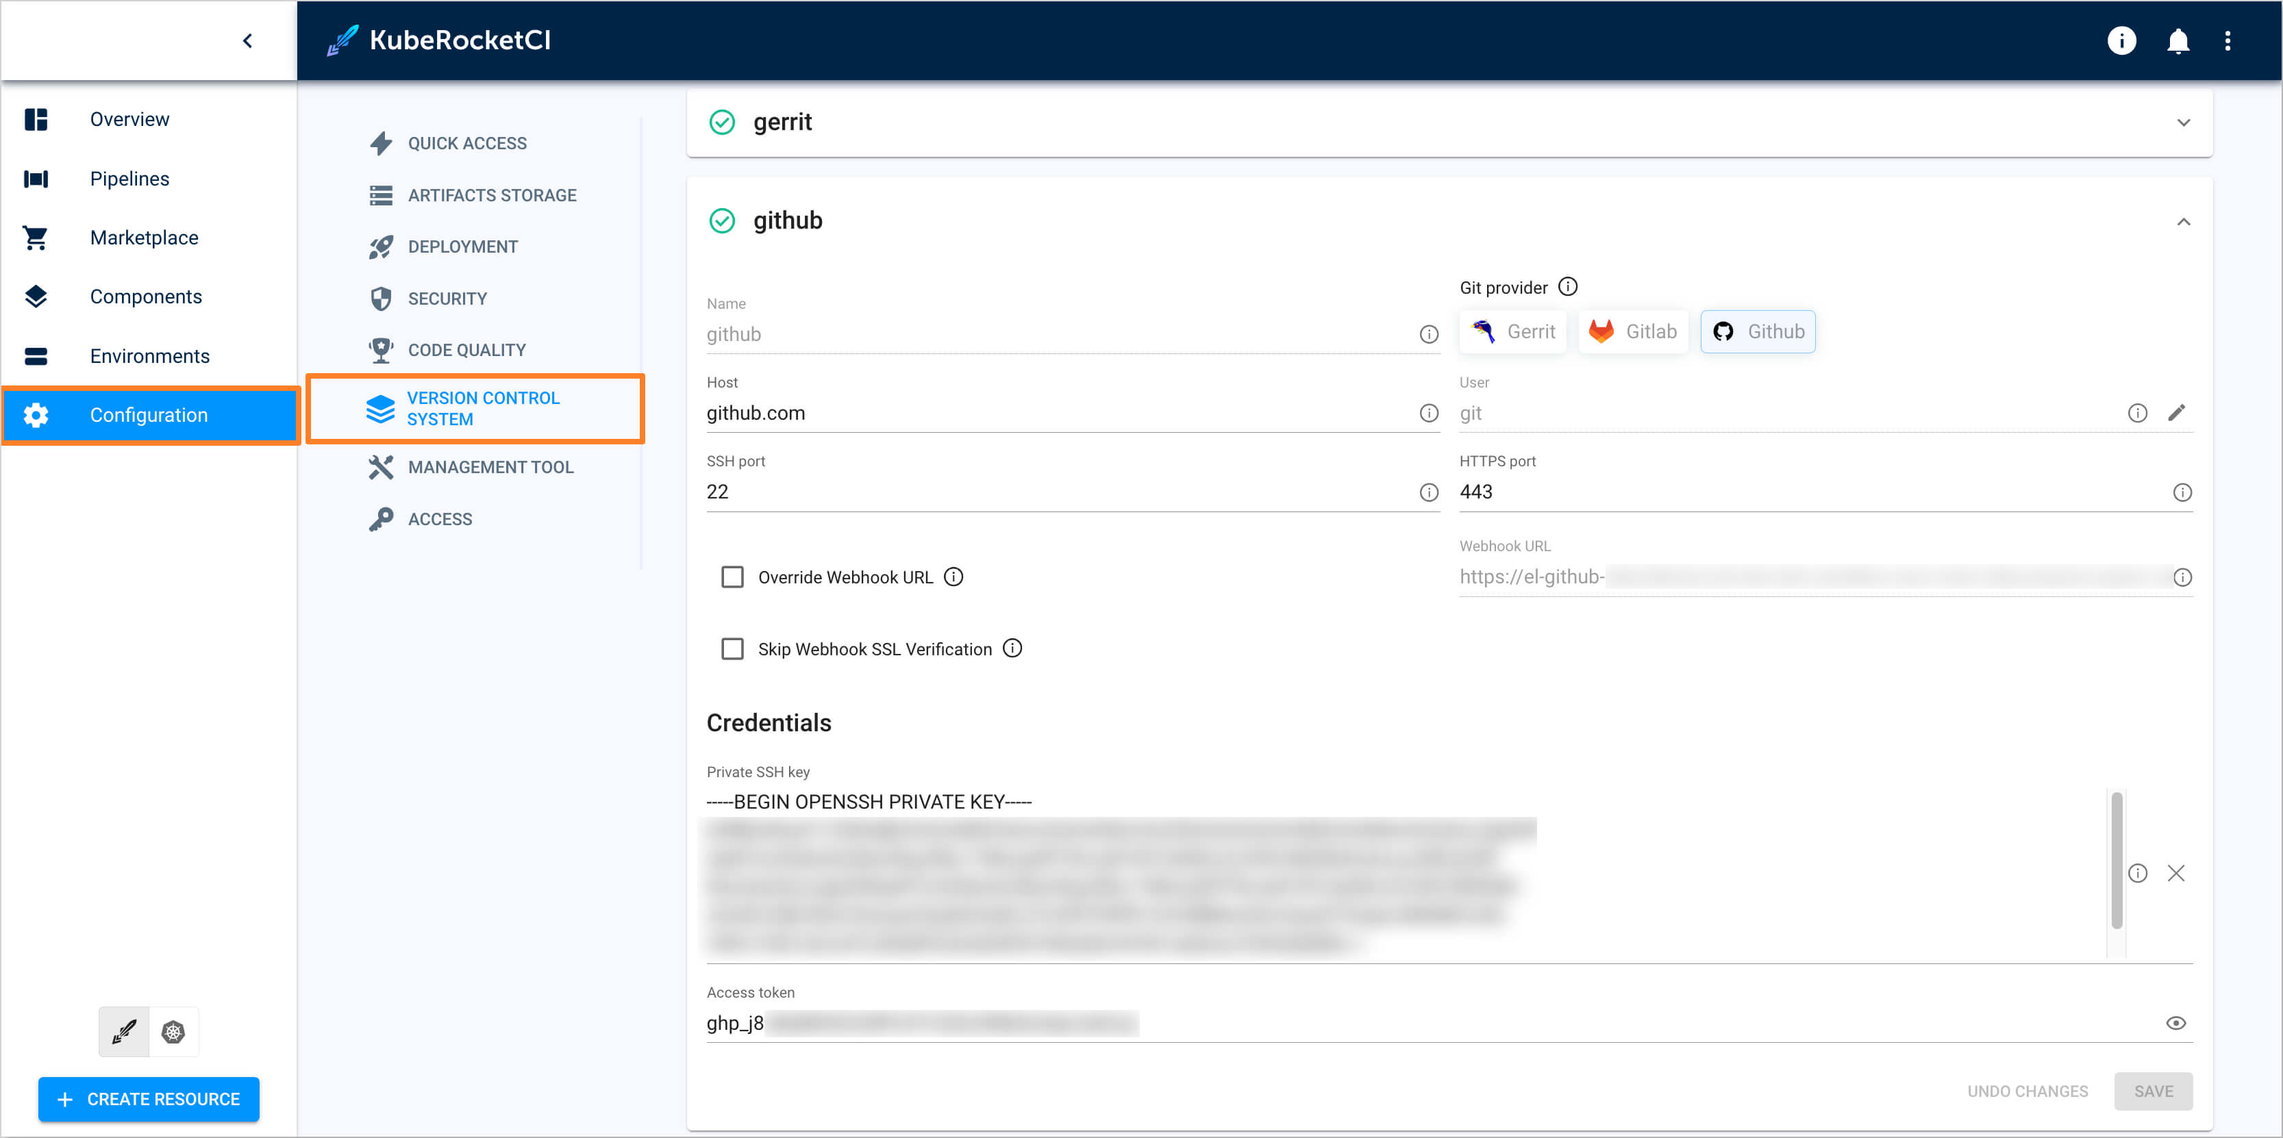
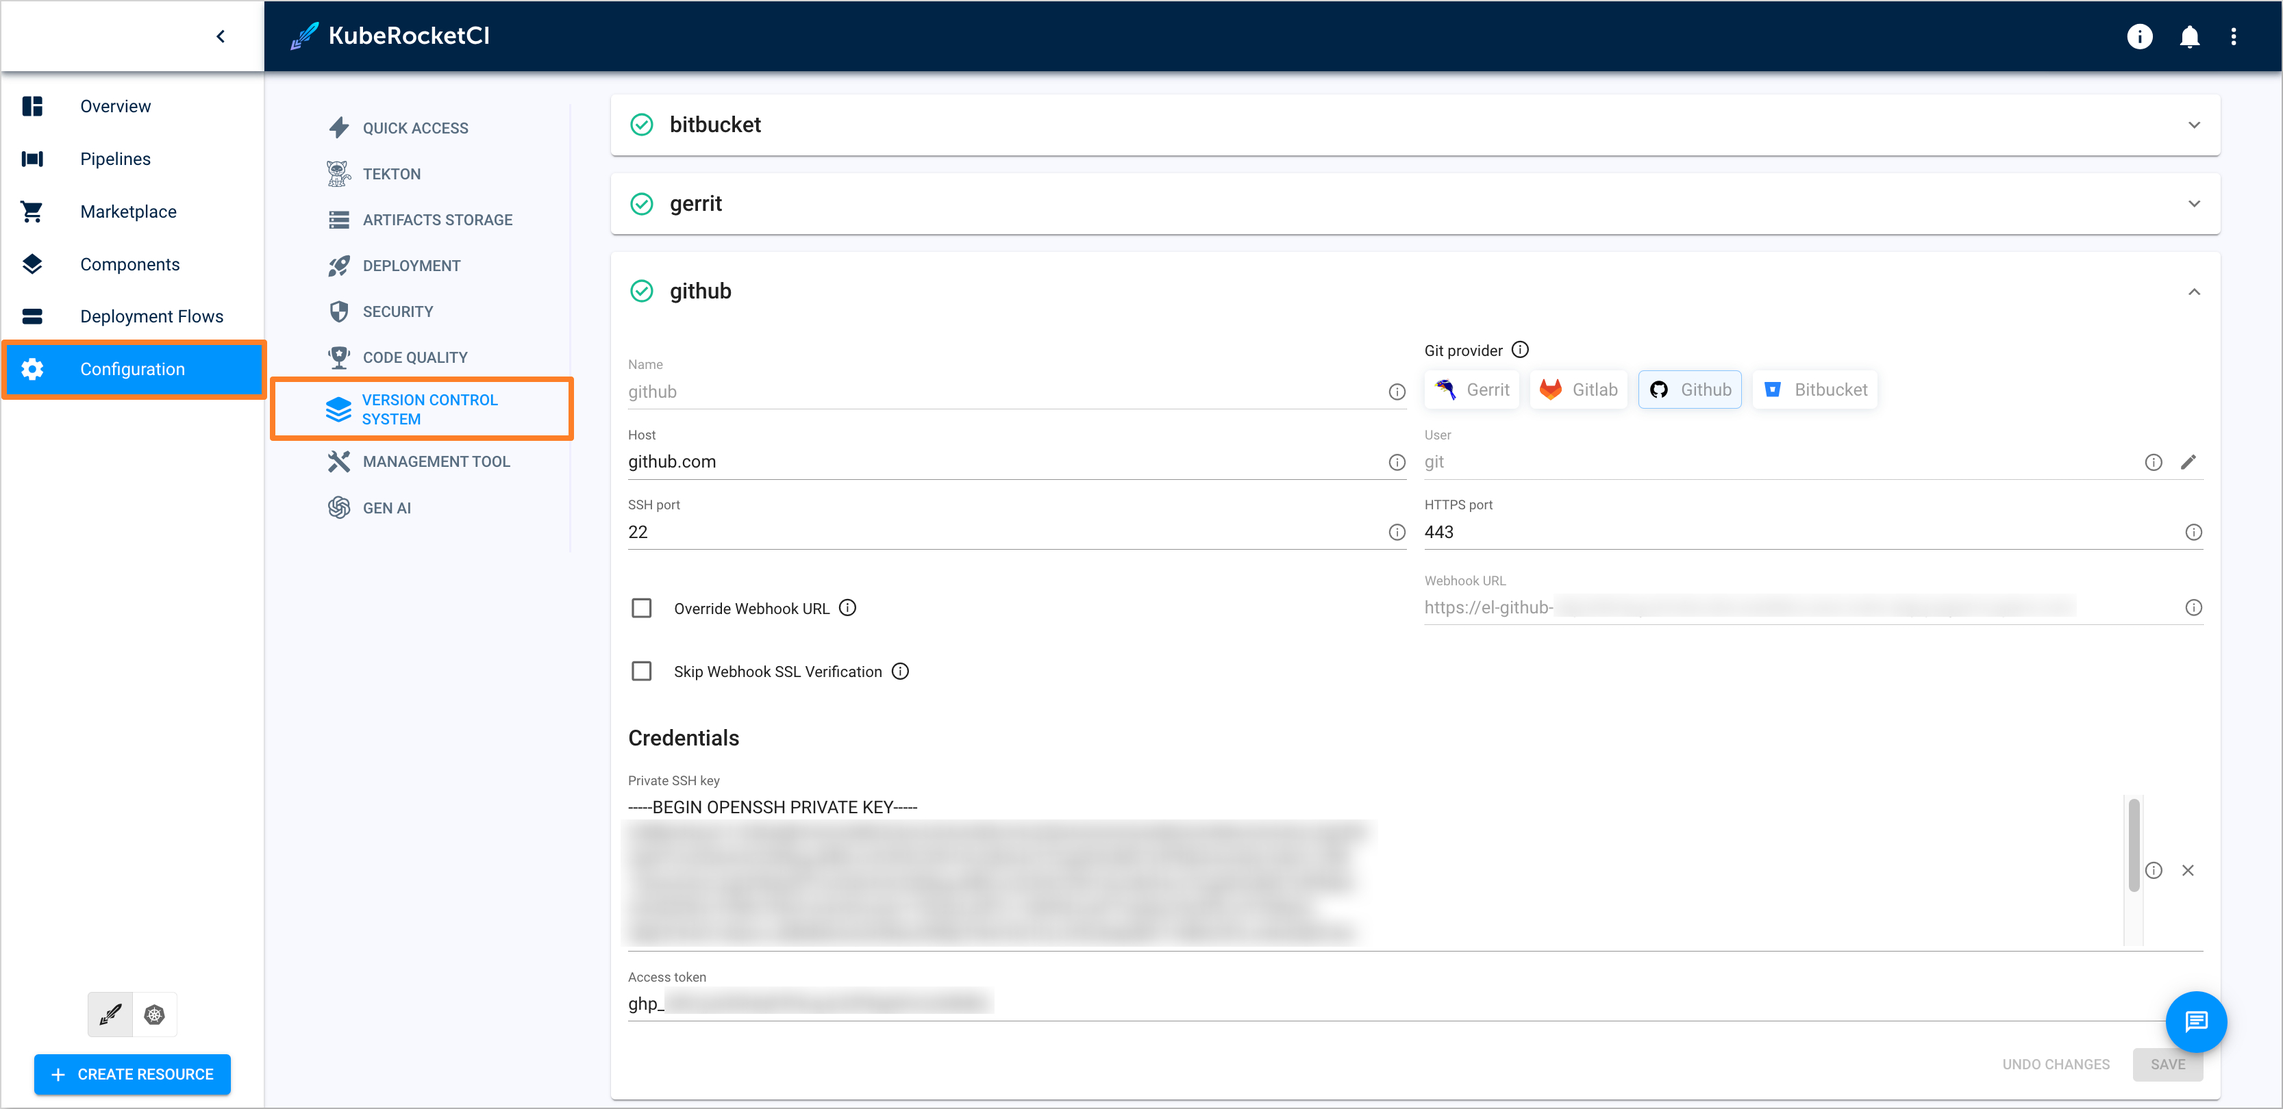
chore: Add BitBucket integration references

diff --git a/docs/user-guide/add-git-server.md b/docs/user-guide/add-git-server.md
@@ -3,7 +3,7 @@ import TabItem from '@theme/TabItem';
 
 # Add Git Server
 
-This page describes how to integrate KubeRocketCI with GitLab or GitHub.
+This guide outlines the steps for integrating KubeRocketCI with GitLab, GitHub, or Bitbucket, enabling seamless CI/CD workflows across these version control platforms.
 
 <div style={{ display: 'flex', justifyContent: 'center' }}>
 <iframe width="560" height="315" src="https://www.youtube.com/embed/pzheGwBLZvU" title="Install KubeRocketCI via Civo" frameborder="0" allow="accelerometer; autoplay; clipboard-write; encrypted-media; gyroscope; picture-in-picture" allowfullscreen="allowfullscreen"></iframe>
@@ -13,19 +13,21 @@ This page describes how to integrate KubeRocketCI with GitLab or GitHub.
 
 To start from, it is required to add both Secret with SSH key, API token, and GitServer resources by taking the steps below.
 
-1. Generate an SSH key pair and add a public key to [GitLab](https://docs.gitlab.com/ee/user/ssh.html) or [GitHub](https://docs.github.com/en/authentication/connecting-to-github-with-ssh/generating-a-new-ssh-key-and-adding-it-to-the-ssh-agent) account.
+1. Generate an SSH key pair and add a public key to your [GitLab](https://docs.gitlab.com/ee/user/ssh.html), [GitHub](https://docs.github.com/en/authentication/connecting-to-github-with-ssh/generating-a-new-ssh-key-and-adding-it-to-the-ssh-agent), or [Bitbucket](https://support.atlassian.com/bitbucket-cloud/docs/configure-ssh-and-two-step-verification) account.
 
     ```bash
     ssh-keygen -t ed25519 -C "email@example.com"
     ```
 
 2. Generate access token for [GitLab](https://docs.gitlab.com/ee/user/profile/personal_access_tokens.html) or [GitHub](https://docs.github.com/en/authentication/keeping-your-account-and-data-secure/creating-a-personal-access-token) account with read/write access to the API. Both personal and project access tokens are applicable.
+For [Bitbucket](https://support.atlassian.com/bitbucket-cloud/docs/app-passwords), generate an App Password with the necessary permissions to interact with the repository.
 
     <Tabs
       defaultValue="github"
       values={[
         {label: 'GitHub', value: 'github'},
-        {label: 'GitLab', value: 'gitlab'}
+        {label: 'GitLab', value: 'gitlab'},
+        {label: 'Bitbucket', value: 'bitbucket'}
       ]}>
 
       <TabItem value="github">
@@ -35,7 +37,7 @@ To start from, it is required to add both Secret with SSH key, API token, and Gi
       * Click the profile account and navigate to **Settings** -> **Developer Settings**.
       * Select *Personal access tokens (classic)* and generate a new token with the following parameters:
 
-      ![Repo permission](../assets/operator-guide/github-scopes-1.png "Repo permission")
+        ![Repo permissions](../assets/operator-guide/github-scopes-1.png "Repo permissions")
 
       :::note
         The access below is required for the codebase operator to setup hooks.
@@ -59,7 +61,7 @@ To start from, it is required to add both Secret with SSH key, API token, and Gi
       * Choose a name and an optional expiry date for the token.
       * In the **Scopes** block, select the **api** scope for the token.
 
-      ![Personal access tokens](../assets/operator-guide/scopes.png "Personal access tokens")
+        ![Personal access tokens](../assets/operator-guide/scopes.png "Personal access tokens")
 
       * Click the **Create personal access token** button.
 
@@ -75,13 +77,34 @@ To start from, it is required to add both Secret with SSH key, API token, and Gi
       * Choose a role: *Owner* or *Maintainer*.
       * In the **Scopes** block, select the *api* scope for the token.
 
-      ![Project access tokens](../assets/operator-guide/scopes-project.png "Project access tokens")
+        ![Project access tokens](../assets/operator-guide/scopes-project.png "Project access tokens")
 
       * Click the **Create project access token** button.
       </TabItem>
+
+      <TabItem value="bitbucket">
+      To create an App Password in Bitbucket, follow the steps below:
+
+      * Log in to Bitbucket.
+      * In the top navigation bar, click the **Settings** icon located in the upper-right corner.
+      * Navigate to **Personal settings** and select **Personal Bitbucket settings**.
+      * In the left-hand sidebar, click on **App passwords**.
+      * Choose **Create app password**.
+      * Provide a meaningful name for the App Password.
+      * Specify the required permissions by selecting the appropriate checkboxes.
+
+        ![App password permissions](../assets/operator-guide/git-servers/app-password-permissions.png "App password permissions")
+
+      * Click **Create** to generate the App Password. A dialog box will display the new password.
+      * Copy the App Password and securely store it. You will not be able to see it again.
+      </TabItem>
     </Tabs>
 
-3. Create a secret in the namespace where KubeRocketCI is installed (`edp` by default) for the Git account with the **id_rsa**, **username**, and **token** fields.
+3. Create a secret in the namespace where KubeRocketCI is installed (default is `edp`) to store the Git account credentials, including the **id_rsa**, **username**, and **token** fields.
+
+   :::note
+   For integration with **Bitbucket**, the **token** field should be populated with the App Password.
+   :::
 
     <Tabs
       defaultValue="portal"
@@ -99,7 +122,7 @@ To start from, it is required to add both Secret with SSH key, API token, and Gi
       <TabItem value="kubectl">
 
       :::warning
-        Take the following template as an example (for the name use `ci-gitlab` for GitLab and `ci-github` for GitHub):
+        Take the following template as an example (for the name use `ci-gitlab` for GitLab, `ci-github` for GitHub, and `ci-bitbucket` for Bitbucket):
       :::
 
       Create a manifest file called `secret.yaml` with the following content filled in:
@@ -126,6 +149,24 @@ To start from, it is required to add both Secret with SSH key, API token, and Gi
     </Tabs>
 
 As a result, you will be able to create codebases using an integrated Version Control System.
+
+## Bitbucket Default Branch Management
+
+When onboarding components via KubeRocketCI with Bitbucket as the Git Server, Bitbucket automatically creates a `master` branch as the default, regardless of the branch specified during component creation (e.g., `main`). This may result in inconsistencies with the expected default branch.
+
+To change the default branch from `master` to desired branch in Bitbucket, follow these steps:
+
+* Log in to Bitbucket.
+* Navigate to the repository where the default branch needs to be changed.
+* In the left sidebar menu, select **Repository Settings**.
+
+  ![Repository Settings](../assets/operator-guide/git-servers/repository-settings.png "Repository settings")
+
+* Proceed to the **Advanced** section. Locate the **Main branch** field and select your desired branch to set it as the default.
+
+  ![Default branch](../assets/operator-guide/git-servers/default-branch.png "Default branch")
+
+* Click **Save changes** to apply your modifications.
 
 ## Advanced Configuration: Using a Custom Webhook URL
 

diff --git a/docs/operator-guide/cd/argocd-integration.md b/docs/operator-guide/cd/argocd-integration.md
@@ -85,18 +85,18 @@ Now that Argo CD is integrated, it is time to configure it properly. To configur
     </Tabs>
 
 2. Add a [credential template](https://argo-cd.readthedocs.io/en/stable/user-guide/private-repositories/#private-repositories)
-for GitHub, GitLab, Gerrit integrations. The credential template must be created for each Git server.
+for GitHub, GitLab, Bitbucket, or Gerrit integrations. The credential template must be created for each Git Server.
 
     <Tabs
       defaultValue="github"
       values={[
-        {label: 'GitHub/GitLab', value: 'github'},
+        {label: 'GitHub/GitLab/Bitbucket', value: 'github'},
         {label: 'Gerrit', value: 'gerrit'}
       ]}>
 
       <TabItem value="github">
 
-      Generate an SSH key pair and add a public key to GitLab or GitHub account.
+      Generate an SSH key pair and add a public key to GitLab, GitHub, or Bitbucket account.
 
       :::warning
         Use an additional GitHub/GitLab User to access a repository. For example:<br />
@@ -108,11 +108,11 @@ for GitHub, GitLab, Gerrit integrations. The credential template must be created
       ssh-keygen -t ed25519 -C "email@example.com" -f argocd
       ```
 
-      Copy SSH private key to Argo CD namespace
+      Copy SSH private key to Argo CD namespace.
 
       ```bash
       EDP_NAMESPACE="edp"
-      VCS_HOST="<github.com_or_gitlab.com>"
+      VCS_HOST="<github.com_or_gitlab.com_or_bitbucket.org>"
       ACCOUNT_NAME="<ACCOUNT_NAME>"
       URL="ssh://git@${VCS_HOST}:22/${ACCOUNT_NAME}"
 
@@ -122,11 +122,10 @@ for GitHub, GitLab, Gerrit integrations. The credential template must be created
       kubectl label --overwrite secret ${EDP_NAMESPACE} -n argocd "argocd.argoproj.io/secret-type=repo-creds"
       ```
 
-      Add public SSH key to GitHub/GitLab account.
       </TabItem>
 
       <TabItem value="gerrit">
-        Copy existing SSH private key for Gerrit to Argo CD namespace
+        Copy existing SSH private key for Gerrit to Argo CD namespace.
 
         ```bash
         EDP_NAMESPACE="edp"
@@ -140,17 +139,17 @@ for GitHub, GitLab, Gerrit integrations. The credential template must be created
     </Tabs>
 
 3. Add [SSH Known hosts](https://argo-cd.readthedocs.io/en/stable/user-guide/private-repositories/#unknown-ssh-hosts)
-   for Gerrit, GitHub, GitLab integration.
+   for GitHub, GitLab, Bitbucket, or Gerrit integration.
 
     <Tabs
       defaultValue="github"
       values={[
-        {label: 'GitHub/GitLab', value: 'github'},
+        {label: 'GitHub/GitLab/Bitbucket', value: 'github'},
         {label: 'Gerrit', value: 'gerrit'}
       ]}>
 
       <TabItem value="github">
-        Add GitHub/GitLab host to Argo CD config map with known hosts
+        Add GitHub, GitLab, or Bitbucket host to Argo CD config map with known hosts.
 
         ```bash
         EDP_NAMESPACE="edp"
@@ -223,7 +222,7 @@ for GitHub, GitLab, Gerrit integrations. The credential template must be created
         - edp
     ```
 
-5. Check that your new Repository, Known Hosts, and AppProject are added to the Argo CD UI.
+5. Check that your new **Repository**, **Known Hosts**, and **AppProject** are added to the Argo CD UI.
 
 6. Generate Argo CD project token for deploy integration:
 

diff --git a/docs/basic-concepts.md b/docs/basic-concepts.md
@@ -6,7 +6,7 @@ Consult [KubeRocketCI Glossary](./glossary.md) section for definitions mentioned
 |-|-|
 |**Cloud Agnostic**|Platform runs on any Kubernetes cluster, including those provided by Public Cloud Providers or deployed on-premises.|
 |**CI/CD for Microservices**|KubeRocketCI is designed to support CI/CD for [Microservices](https://microservices.io/) running as containerized applications inside a Kubernetes Cluster. It provides CI Pipelines for [different technology stacks](./about-platform.md#features).|
-|**Version Control System (VCS)**|The platform integrates with **GitHub** and **GitLab**.|
+|**Version Control System (VCS)**|The platform integrates with **GitHub**, **GitLab**, **Bitbucket**, and **Gerrit**.|
 |**Branching Strategy**|KubeRocketCI supports both [Trunk-based](https://trunkbaseddevelopment.com/) development and [GitHub/GitLab flow](https://guides.github.com/introduction/flow/). It creates two Pipelines per codebase branch: *Code Review* and *Build*.|
 |**Repository Structure**|By default, the platform provides a separate Git repository for each Codebase. It does not support *Monorepo* out of the box, but can be customized to align with the *Monorepo* approach.|
 |**Artifacts Versioning**|The platform supports two approaches for Artifacts versioning: <br />- `default` (BRANCH-[DATETIME])<br />- `EDP` (MAJOR.MINOR.PATCH-BUILD_ID), which follows [SemVer](https://semver.org/). <br />You can also create custom versioning by implementing the `get-version` CI step.|

diff --git a/docs/user-guide/configuration-overview.md b/docs/user-guide/configuration-overview.md
@@ -17,7 +17,7 @@ Here is the list of all the sections provided in the Configuration tab. Familiar
 |[DefectDojo](../operator-guide/devsecops/defectdojo.md)|Connect platform with DefectDojo to manage and track security defects in applications.|
 |[DependencyTrack](../operator-guide/devsecops/dependency-track.md)|Connect the platform with the DependencyTrack tool for monitoring and managing vulnerabilities within third-party components.|
 |[SonarQube](../operator-guide/code-quality/sonarqube.md)|Integrate SonarQube to enable static code analysis.|
-|[Git Server](add-git-server.md)|Connect the platform to Version Control Systems, such as GitHub, GitLab, or Gerrit for source code management.|
+|[Git Server](add-git-server.md)|Connect the platform to Version Control Systems, such as GitHub, GitLab, Bitbucket, or Gerrit for source code management.|
 |[Jira](../operator-guide/project-management-and-reporting/jira-integration.md)|Integrate Jira to track and deliver the status of your projects on a dedicated dashboard.|
 |[SSO](../operator-guide/auth/keycloak.md)|Integrate platform with identity provider to enable the Single Sign-On approach.|
 

diff --git a/docs/developer-guide/reference-architecture.md b/docs/developer-guide/reference-architecture.md
@@ -52,6 +52,6 @@ KubeRocketCI harnesses the robust capabilities of Kubernetes in conjunction with
 
 ![Platform and Tools](../assets/developer-guide/architecture/reference-architecture-tools.png)
 
-KubeRocketCI integrates with GitLab, GitHub, and Gerrit for version control. These systems are foundational components enabling efficient source code management, collaboration, and code review processes.
+KubeRocketCI integrates with GitLab, GitHub, Bitbucket, and Gerrit for version control. These systems are foundational components enabling efficient source code management, collaboration, and code review processes.
 
 Platform ensures robust security measures by leveraging OpenID Connect (OIDC) for authentication and authorization across all platform tools and Kubernetes clusters. By employing OIDC, KubeRocketCI establishes a unified and secure authentication mechanism, enabling seamless access control and user authentication for all tools integrated into the platform. This standardized approach ensures stringent security protocols, maintaining authentication consistency and authorization policies across the platform ecosystem.

diff --git a/docs/developer-guide/telemetry.md b/docs/developer-guide/telemetry.md
@@ -9,7 +9,7 @@ The codebase-operator collects the following data:
 - The version of the platform
 - The number of codebases created and their parameters: language (for example, Java, NodeJS, etc.), framework (for example, FastAPI, Flask, etc.), build tool (for example, Maven, Gradle, etc.), strategy (for example, Clone, Create, Import), and Type (for example, library, application, etc.)
 - The number of CD pipelines created and their parameters: deployment type (for example, Auto, Manual), and the number of stages
-- The number of Git providers connected to the platform and their types (for example, GitHub, GitLab, Gerrit)
+- The number of Git providers connected to the platform and their types (for example GitHub, GitLab, Bitbucket, or Gerrit)
 - Where Jira is enabled or not
 - The type of the Docker registry connected to the platform (for example, Docker Hub, Harbor, ECR)
 

diff --git a/docs/operator-guide/secrets-management/external-secrets-operator-integration.md b/docs/operator-guide/secrets-management/external-secrets-operator-integration.md
@@ -17,6 +17,7 @@ KubeRocketCI leverages a variety of secrets to facilitate the integration of dif
 |regcred|.dockerconfigjson|Serialized JSON that follows docker config patterns|cd-pipeline-operator|
 |ci-github|id_rsa<br />token<br />secretString|Private key from github repo <br />API token<br />Random string|edp-tekton|
 |ci-gitlab|id_rsa<br />token<br />secretString|Private key from gitlab repo <br />API token<br />Random string|edp-tekton|
+|ci-bitbucket|id_rsa<br />token<br />secretString|Private key from bitbucket repo <br />App Password<br />Random string|edp-tekton|
 |ci-jira|username<br />password|Jira username <br />Jira password|edp-codebase-operator|
 |ci-sonarqube|token<br />url|SonarQube token<br />SonarQube URL|edp-tekton|
 |ci-nexus|username<br />password<br />url|Nexus username<br />Nexus password<br />Nexus URL|edp-tekton|

diff --git a/docs/user-guide/code-review-pipeline.md b/docs/user-guide/code-review-pipeline.md
@@ -7,7 +7,7 @@ This section provides details on the Code Review pipeline of the KubeRocketCI CI
 The purpose of the Code Review pipeline contains the following points:
 
 * Check out and test a particular developer's change (Patch Set) in order to inspect whether the code fits all the quality gates and can be built and tested;
-* Be triggered if any new Patch Set appears in GitHub/GitLab/Gerrit;
+* Be triggered if any new Patch Set appears in GitHub, GitLab, Bitbucket, or Gerrit;
 * Send feedback about the build process in Tekton to review the card in Gerrit;
 * Send feedback about Sonar violations that have been found during the Sonar stage.
 

diff --git a/docs/user-guide/git-server-overview.md b/docs/user-guide/git-server-overview.md
@@ -1,6 +1,6 @@
 # Manage Git Servers
 
-Git Server is responsible for integration with Version Control System, whether it is GitHub, GitLab or Gerrit.
+Git Server is responsible for integration with Version Control System, whether it is GitHub, GitLab, Bitbucket, or Gerrit.
 
 <div style={{ display: 'flex', justifyContent: 'center' }}>
 <iframe width="560" height="315" src="https://www.youtube.com/embed/pzheGwBLZvU" title="YouTube video player" frameborder="0" allow="accelerometer; autoplay; clipboard-write; encrypted-media; gyroscope; picture-in-picture" allowfullscreen="allowfullscreen"></iframe>

diff --git a/docs/quick-start/integrate-github.md b/docs/quick-start/integrate-github.md
@@ -7,6 +7,10 @@ This tutorial focuses on the create strategy, wherein an application is directly
   Prior to moving forward, ensure you possess an active GitHub account and have successfully deployed the platform.
 :::
 
+:::note
+If integration with a different Version Control System (VCS) is required, refer to the [Add Git Server](../user-guide/add-git-server.md) section for details on configuring alternative VCS providers.
+:::
+
 ## Integration Procedure
 
 To integrate KubeRocketCI with GitHub, follow the steps below:
